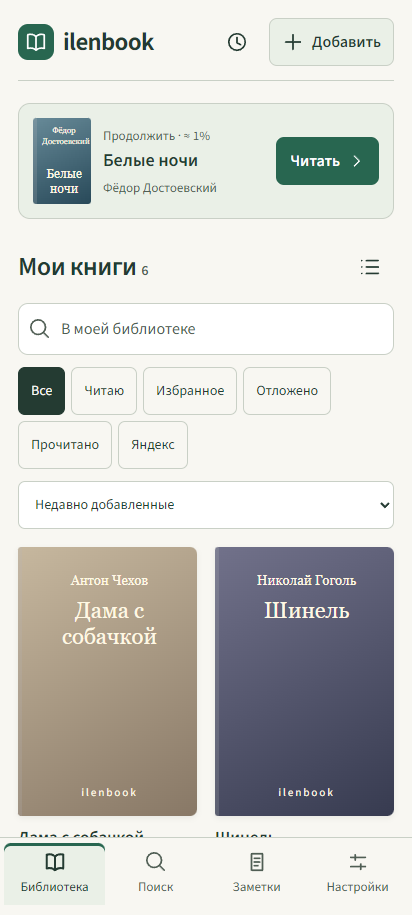
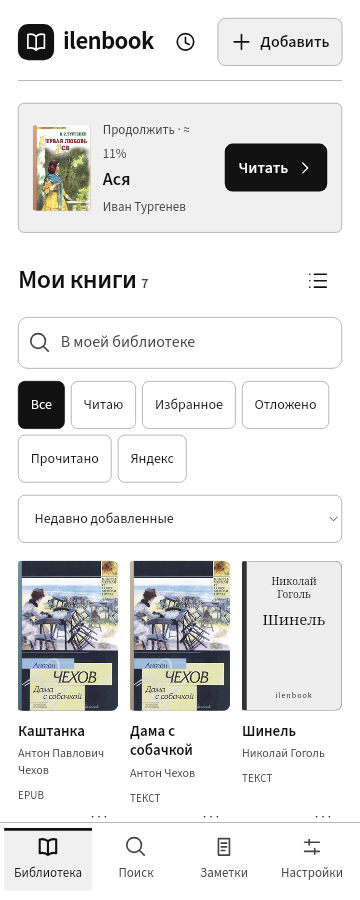
Fit three or more books per shelf row and release 0.7.2

diff --git a/app/src/main/assets/discovery.css b/app/src/main/assets/discovery.css
@@ -1,6 +1,7 @@
 /* Library and discovery share the paper palette and E Ink contrast tokens. */
-.shell{padding-top:18px}.top{padding-bottom:14px;border-bottom:1px solid var(--line);margin-bottom:22px}.logo{letter-spacing:-.65px}.brand-icon{border-radius:10px}.section-head h1{letter-spacing:-.5px}.eyebrow{display:block;font-size:13px;color:var(--muted);margin-bottom:5px}.search-intro{margin:0 0 18px;max-width:46ch}.searchbox{border-radius:10px;min-height:52px}.catalog-searchbox{border-width:1.5px}.search-submit{background:var(--green);color:var(--bg);border-radius:8px;margin:4px -6px 4px 0}.search-options{display:grid;grid-template-columns:repeat(2,minmax(0,1fr));gap:10px}.search-options>label,.result-filters>label{font-size:13px;color:var(--muted);min-width:0}.search-options .field,.result-filters .field{margin:5px 0 0;font-size:15px;color:var(--ink)}.search-source-summary{display:flex;align-items:center;justify-content:space-between;gap:10px;font-size:14px;margin:12px 0 26px;color:var(--muted)}.text-button{color:var(--green);font-weight:600;padding:8px 2px;min-height:48px;text-align:left}.search-history{margin:0 0 24px}.search-history h2,#catalog-view>.section-head h2{font-size:20px}.search-history .section-head{margin-bottom:0}.search-history .chips{margin:0}.search-history .chip{gap:6px;max-width:100%;overflow-wrap:anywhere}.search-history .icon{width:17px;height:17px}.source-card{border:1px solid var(--line);background:var(--card);border-radius:12px;padding:14px;gap:12px;min-width:0;width:100%;margin:0;text-align:left;display:grid;grid-template-columns:38px minmax(0,1fr) 20px}.source-card strong{font-size:17px;font-weight:600;overflow-wrap:anywhere}.source-card small{margin-top:4px;font-size:13px}.source-emblem{width:38px;height:44px;display:grid;place-items:center;background:var(--soft);color:var(--green);border-radius:8px}.catalog-source-grid{display:grid;gap:10px}.search-result-status{display:flex;align-items:center;justify-content:space-between;gap:8px;margin:16px 0}.search-result-status .search-progress{margin:0;padding:0;border:0;font-size:14px;color:var(--muted)}.global-tools{display:flex;flex-wrap:wrap;gap:8px;margin-bottom:14px}.global-tools .secondary{font-size:14px;min-height:48px}.global-tools .icon{width:18px;height:18px}.result-filters{display:grid;grid-template-columns:repeat(2,minmax(0,1fr));gap:12px;padding:14px;background:var(--soft);border:1px solid var(--line);border-radius:10px;margin-bottom:10px}.result-filters .text-button{grid-column:1/-1;min-height:40px}.global-entry{display:grid;grid-template-columns:64px minmax(0,1fr);gap:14px;padding:18px 0;align-items:start;width:100%;text-align:left;border-bottom:1px solid var(--line)}.global-entry .catalog-cover{width:64px;min-width:64px;height:96px;aspect-ratio:2/3}.global-entry .entry-copy{min-width:0}.entry-copy h3{font-size:18px;line-height:1.3;margin-bottom:4px;overflow-wrap:anywhere}.entry-copy p{font-size:15px;color:var(--muted)}.entry-copy .result-source{font-size:12px;margin-top:7px}.entry-copy .result-formats{font-size:12px;margin-top:3px}.entry-action{font-size:14px;font-weight:600;color:var(--green);display:flex;align-items:center;gap:4px;margin-top:8px}.entry-action .icon{width:16px;height:16px}.global-entry.section-entry{grid-template-columns:28px minmax(0,1fr) 20px}.global-entry.section-entry>.icon{margin-top:4px}.search-empty{padding:22px 4px}.source-status{padding:14px 0;display:grid;grid-template-columns:minmax(0,1fr) auto;gap:8px;border-bottom:1px solid var(--line)}.source-status .error{grid-column:1/-1;margin:0;font-size:13px;overflow-wrap:anywhere}.source-status .secondary{grid-column:2;grid-row:1;font-size:14px}.source-status strong{font-size:15px}.source-status p{font-size:13px}.source-manager .setting-row{flex:1;justify-content:flex-start;gap:12px;min-width:0;border:0}.source-manager .setting-row span{overflow-wrap:anywhere}.source-manager .setting-row input{flex-shrink:0}.source-manage-row{display:flex;gap:6px;align-items:center;border-bottom:1px solid var(--line)}.source-manager{margin-bottom:16px}#source-details{margin:20px 0}#global-pages .full,#show-local-results{margin-top:14px}.shelf-large{grid-template-columns:repeat(2,minmax(0,1fr));gap:26px 18px}.shelf-compact{grid-template-columns:repeat(3,minmax(0,1fr));gap:22px 12px}.book h3{font-size:17px;font-weight:600;line-height:1.3;margin-top:11px}.book-author{font-size:14px;line-height:1.4}.book-foot{font-size:12px;letter-spacing:.1px;padding-right:44px;margin-top:9px;min-height:38px}.book-menu{right:-5px;bottom:0;width:48px;min-width:48px}.book .progress{height:4px;border-radius:2px;overflow:hidden}.book-item .cover{box-shadow:0 2px 6px #17251d12}.cover-title{overflow-wrap:anywhere}.shelf-compact .cover-title{font-size:17px}.shelf-compact .cover-author{font-size:10px}.shelf-compact .cover-footer{font-size:8px;letter-spacing:1px}.shelf-compact .book h3{font-size:15px}.shelf-compact .book-author{font-size:12px}.shelf-compact .book-foot{font-size:11px;min-height:48px;padding-right:30px}.shelf-compact .book-menu{width:48px;min-width:48px}.resume{grid-template-columns:58px minmax(0,1fr) auto;gap:12px;padding:14px;background:var(--soft);border-radius:12px;margin-bottom:24px}.resume-cover{width:58px;height:86px;border-radius:3px;padding:8px 5px}.resume-cover .cover-title{font-size:12px;line-height:1.2}.resume-cover .cover-author{font-size:8px}.resume-cover .cover-art,.resume-cover .cover-footer{display:none}.resume-copy{min-width:0}.resume-copy h3{font-size:18px;line-height:1.25;overflow-wrap:anywhere}.resume-copy .subtle{font-size:13px}.resume .primary{align-self:center}.layout-choices{display:grid;gap:10px;margin-top:18px}.layout-choice{display:flex;align-items:center;gap:12px;width:100%;padding:14px;border:1px solid var(--line);border-radius:10px;text-align:left}.layout-choice>span{flex:1;min-width:0}.layout-choice.selected{border:2px solid var(--green);background:var(--soft);padding:13px}.layout-choice strong{font-size:17px}.layout-choice small{font-size:13px;margin-top:4px}.library-empty p{margin:12px 0 20px}.nav{padding-bottom:max(10px,env(safe-area-inset-bottom));border-top:1px solid var(--line);background:var(--bg)}.nav button.active{background:var(--soft);border-radius:7px 7px 0 0}.sheet .full+.full{margin-top:10px}.eink .book-item .cover{box-shadow:none}.eink .source-card,.eink .resume,.eink .result-filters{border-radius:6px}.eink .nav button.active{border-radius:0}.eink .search-submit{color:#fff}
+.shell{padding-top:18px}.top{padding-bottom:14px;border-bottom:1px solid var(--line);margin-bottom:22px}.logo{letter-spacing:-.65px}.brand-icon{border-radius:10px}.section-head h1{letter-spacing:-.5px}.eyebrow{display:block;font-size:13px;color:var(--muted);margin-bottom:5px}.search-intro{margin:0 0 18px;max-width:46ch}.searchbox{border-radius:10px;min-height:52px}.catalog-searchbox{border-width:1.5px}.search-submit{background:var(--green);color:var(--bg);border-radius:8px;margin:4px -6px 4px 0}.search-options{display:grid;grid-template-columns:repeat(2,minmax(0,1fr));gap:10px}.search-options>label,.result-filters>label{font-size:13px;color:var(--muted);min-width:0}.search-options .field,.result-filters .field{margin:5px 0 0;font-size:15px;color:var(--ink)}.search-source-summary{display:flex;align-items:center;justify-content:space-between;gap:10px;font-size:14px;margin:12px 0 26px;color:var(--muted)}.text-button{color:var(--green);font-weight:600;padding:8px 2px;min-height:48px;text-align:left}.search-history{margin:0 0 24px}.search-history h2,#catalog-view>.section-head h2{font-size:20px}.search-history .section-head{margin-bottom:0}.search-history .chips{margin:0}.search-history .chip{gap:6px;max-width:100%;overflow-wrap:anywhere}.search-history .icon{width:17px;height:17px}.source-card{border:1px solid var(--line);background:var(--card);border-radius:12px;padding:14px;gap:12px;min-width:0;width:100%;margin:0;text-align:left;display:grid;grid-template-columns:38px minmax(0,1fr) 20px}.source-card strong{font-size:17px;font-weight:600;overflow-wrap:anywhere}.source-card small{margin-top:4px;font-size:13px}.source-emblem{width:38px;height:44px;display:grid;place-items:center;background:var(--soft);color:var(--green);border-radius:8px}.catalog-source-grid{display:grid;gap:10px}.search-result-status{display:flex;align-items:center;justify-content:space-between;gap:8px;margin:16px 0}.search-result-status .search-progress{margin:0;padding:0;border:0;font-size:14px;color:var(--muted)}.global-tools{display:flex;flex-wrap:wrap;gap:8px;margin-bottom:14px}.global-tools .secondary{font-size:14px;min-height:48px}.global-tools .icon{width:18px;height:18px}.result-filters{display:grid;grid-template-columns:repeat(2,minmax(0,1fr));gap:12px;padding:14px;background:var(--soft);border:1px solid var(--line);border-radius:10px;margin-bottom:10px}.result-filters .text-button{grid-column:1/-1;min-height:40px}.global-entry{display:grid;grid-template-columns:64px minmax(0,1fr);gap:14px;padding:18px 0;align-items:start;width:100%;text-align:left;border-bottom:1px solid var(--line)}.global-entry .catalog-cover{width:64px;min-width:64px;height:96px;aspect-ratio:2/3}.global-entry .entry-copy{min-width:0}.entry-copy h3{font-size:18px;line-height:1.3;margin-bottom:4px;overflow-wrap:anywhere}.entry-copy p{font-size:15px;color:var(--muted)}.entry-copy .result-source{font-size:12px;margin-top:7px}.entry-copy .result-formats{font-size:12px;margin-top:3px}.entry-action{font-size:14px;font-weight:600;color:var(--green);display:flex;align-items:center;gap:4px;margin-top:8px}.entry-action .icon{width:16px;height:16px}.global-entry.section-entry{grid-template-columns:28px minmax(0,1fr) 20px}.global-entry.section-entry>.icon{margin-top:4px}.search-empty{padding:22px 4px}.source-status{padding:14px 0;display:grid;grid-template-columns:minmax(0,1fr) auto;gap:8px;border-bottom:1px solid var(--line)}.source-status .error{grid-column:1/-1;margin:0;font-size:13px;overflow-wrap:anywhere}.source-status .secondary{grid-column:2;grid-row:1;font-size:14px}.source-status strong{font-size:15px}.source-status p{font-size:13px}.source-manager .setting-row{flex:1;justify-content:flex-start;gap:12px;min-width:0;border:0}.source-manager .setting-row span{overflow-wrap:anywhere}.source-manager .setting-row input{flex-shrink:0}.source-manage-row{display:flex;gap:6px;align-items:center;border-bottom:1px solid var(--line)}.source-manager{margin-bottom:16px}#source-details{margin:20px 0}#global-pages .full,#show-local-results{margin-top:14px}.shelf-large{grid-template-columns:repeat(3,minmax(0,1fr));gap:20px 12px}.shelf-compact{grid-template-columns:repeat(3,minmax(0,1fr));gap:18px 8px}.book h3{font-size:17px;font-weight:600;line-height:1.3;margin-top:11px}.book-author{font-size:14px;line-height:1.4}.book-foot{font-size:12px;letter-spacing:.1px;padding-right:44px;margin-top:9px;min-height:38px}.book-menu{right:-5px;bottom:0;width:48px;min-width:48px}.book .progress{height:4px;border-radius:2px;overflow:hidden}.book-item .cover{box-shadow:0 2px 6px #17251d12}.cover-title{overflow-wrap:anywhere}.grid .cover-title{overflow-wrap:normal;word-break:normal;hyphens:auto;font-size:15px;line-height:1.2;display:-webkit-box;-webkit-box-orient:vertical;-webkit-line-clamp:4;overflow:hidden}.grid .cover-author{font-size:10px;display:-webkit-box;-webkit-box-orient:vertical;-webkit-line-clamp:2;overflow:hidden}.grid .cover-footer{font-size:8px;letter-spacing:1px}.grid .book h3{font-size:15px;display:-webkit-box;-webkit-box-orient:vertical;-webkit-line-clamp:3;overflow:hidden}.grid .book-author{font-size:12px;display:-webkit-box;-webkit-box-orient:vertical;-webkit-line-clamp:2;overflow:hidden}.grid .book-foot{font-size:11px;min-height:48px;padding-right:30px;overflow-wrap:normal;white-space:nowrap;overflow:hidden;text-overflow:ellipsis}.shelf-compact .cover-title{font-size:12px}.shelf-compact .book h3{font-size:14px}.shelf-compact .book-menu{width:48px;min-width:48px}.resume{grid-template-columns:58px minmax(0,1fr) auto;gap:12px;padding:14px;background:var(--soft);border-radius:12px;margin-bottom:24px}.resume-cover{width:58px;height:86px;border-radius:3px;padding:8px 5px}.resume-cover .cover-title{font-size:12px;line-height:1.2}.resume-cover .cover-author{font-size:8px}.resume-cover .cover-art,.resume-cover .cover-footer{display:none}.resume-copy{min-width:0}.resume-copy h3{font-size:18px;line-height:1.25;overflow-wrap:anywhere}.resume-copy .subtle{font-size:13px}.resume .primary{align-self:center}.layout-choices{display:grid;gap:10px;margin-top:18px}.layout-choice{display:flex;align-items:center;gap:12px;width:100%;padding:14px;border:1px solid var(--line);border-radius:10px;text-align:left}.layout-choice>span{flex:1;min-width:0}.layout-choice.selected{border:2px solid var(--green);background:var(--soft);padding:13px}.layout-choice strong{font-size:17px}.layout-choice small{font-size:13px;margin-top:4px}.library-empty p{margin:12px 0 20px}.nav{padding-bottom:max(10px,env(safe-area-inset-bottom));border-top:1px solid var(--line);background:var(--bg)}.nav button.active{background:var(--soft);border-radius:7px 7px 0 0}.sheet .full+.full{margin-top:10px}.eink .book-item .cover{box-shadow:none}.eink .source-card,.eink .resume,.eink .result-filters{border-radius:6px}.eink .nav button.active{border-radius:0}.eink .search-submit{color:#fff}
 @media(max-width:350px){.resume{grid-template-columns:46px minmax(0,1fr);gap:10px;padding:12px}.resume-cover{width:46px;height:72px;grid-row:1/3}.resume .primary{grid-column:2;justify-self:start;min-height:44px;padding:6px 14px}.resume-copy h3{font-size:17px}.search-source-summary{align-items:flex-start}.search-source-summary .text-button{max-width:125px;padding-top:0}.shelf-large{gap:24px 14px}.shelf-compact{gap:20px 9px}.shelf-compact .book-menu{right:-8px}.global-tools{gap:6px}.global-tools .secondary{padding:8px 10px}.source-card{padding:12px;gap:10px;grid-template-columns:34px minmax(0,1fr) 18px}.source-emblem{width:34px}.source-card strong{font-size:16px}}
-@media(min-width:600px){.catalog-source-grid{grid-template-columns:repeat(2,minmax(0,1fr))}.shelf-large{grid-template-columns:repeat(3,minmax(0,1fr))}.shelf-compact{grid-template-columns:repeat(4,minmax(0,1fr))}.result-filters{grid-template-columns:repeat(4,minmax(0,1fr))}.resume{grid-template-columns:64px minmax(0,1fr) auto}.resume-cover{width:64px;height:94px}.global-entry{grid-template-columns:78px minmax(0,1fr)}.global-entry .catalog-cover{width:78px;height:117px}}
-@media(min-width:850px){.shelf-large{grid-template-columns:repeat(4,minmax(0,1fr))}.shelf-compact{grid-template-columns:repeat(5,minmax(0,1fr))}}
+@media(min-width:360px){.shelf-compact{grid-template-columns:repeat(4,minmax(0,1fr))}}
+@media(min-width:600px){.catalog-source-grid{grid-template-columns:repeat(2,minmax(0,1fr))}.shelf-large{grid-template-columns:repeat(4,minmax(0,1fr))}.shelf-compact{grid-template-columns:repeat(5,minmax(0,1fr))}.result-filters{grid-template-columns:repeat(4,minmax(0,1fr))}.resume{grid-template-columns:64px minmax(0,1fr) auto}.resume-cover{width:64px;height:94px}.global-entry{grid-template-columns:78px minmax(0,1fr)}.global-entry .catalog-cover{width:78px;height:117px}}
+@media(min-width:850px){.shelf-large{grid-template-columns:repeat(5,minmax(0,1fr))}.shelf-compact{grid-template-columns:repeat(6,minmax(0,1fr))}}
 .flibusta-network-tools{display:flex;align-items:center;gap:8px;flex-wrap:wrap;margin:12px 0}.flibusta-network-tools .description{margin:0;font-size:13px}

diff --git a/app/src/main/assets/app.js b/app/src/main/assets/app.js
@@ -1,5 +1,5 @@
 'use strict';
-const VERSION='0.7.1',STORE='list-reader-v1';
+const VERSION='0.7.2',STORE='list-reader-v1';
 const $=s=>document.querySelector(s),$$=s=>[...document.querySelectorAll(s)];
 const esc=v=>String(v??'').replace(/[&<>"']/g,c=>({'&':'&amp;','<':'&lt;','>':'&gt;','"':'&quot;',"'":'&#39;'}[c]));
 const fold=v=>String(v??'').normalize('NFKC').toLocaleLowerCase('ru').replace(/ё/g,'е').replace(/\s+/g,' ').trim();
@@ -71,7 +71,7 @@ function renderLibrary(){
 function renderBooks(){
  const q=fold(state.query),isExternal=b=>!!b.url;let books=[...state.books,...externalLibraryBooks()].filter(b=>{const m=meta(b.id);return (state.filter==='all'||state.filter==='favorite'&&m.favorite||state.filter==='external'&&isExternal(b)||(b.yandexAccount?yandexRemoteState(b):m.status)===state.filter)&&(!state.collection||m.collection===state.collection)&&q.split(' ').every(t=>fold(`${b.title} ${b.author} ${m.series||b.series||''} ${m.collection||''}`).includes(t))});
  books.sort((a,b)=>state.sort==='title'?a.title.localeCompare(b.title,'ru'):state.sort==='author'?a.author.localeCompare(b.author,'ru'):state.sort==='series'?String(meta(a.id).series||a.series||'').localeCompare(String(meta(b.id).series||b.series||''),'ru')||Number(meta(a.id).seriesNumber||a.seriesNumber||0)-Number(meta(b.id).seriesNumber||b.seriesNumber||0):state.sort==='opened'?(meta(b.id).lastRead||0)-(meta(a.id).lastRead||0):(b.added||0)-(a.added||0));
- $('#books').innerHTML=books.length?`<div class="${state.list?'list-view':'grid shelf-'+state.shelf}">${books.map(b=>`<div class="book-item"><button class="book" data-book="${esc(b.id)}" aria-label="${b.url?'Открыть в Яндекс Книгах':'Читать'}: ${esc(b.title)}">${cover(b)}<h3>${esc(b.title)}</h3><div class="book-author">${esc(b.author)}</div><div class="book-foot">${b.yandexAccount?yandexBookLabel(b):b.url?'Яндекс Книги ↗':meta(b.id).status==='done'?'Прочитано':percent(b)>0?'≈ '+percent(b)+'% · на устройстве':'На устройстве · '+esc(b.format||'EPUB')}</div>${!b.url&&percent(b)>0?`<div class="progress"><span style="width:${percent(b)}%"></span></div>`:''}</button><button class="book-menu icon-btn" data-details="${esc(b.id)}" aria-label="Действия с книгой ${esc(b.title)}">${icon('more')}</button></div>`).join('')}</div>`:'<div class="empty"><h2>Книги не найдены</h2><p>Измените фильтр или добавьте книгу с устройства.</p></div>';
+ $('#books').innerHTML=books.length?`<div class="${state.list?'list-view':'grid shelf-'+state.shelf}">${books.map(b=>`<div class="book-item"><button class="book" data-book="${esc(b.id)}" aria-label="${b.url?'Открыть в Яндекс Книгах':'Читать'}: ${esc(b.title)}">${cover(b)}<h3>${esc(b.title)}</h3><div class="book-author">${esc(b.author)}</div><div class="book-foot">${b.yandexAccount?yandexBookLabel(b):b.url?'Яндекс Книги ↗':meta(b.id).status==='done'?'Прочитано':percent(b)>0?'≈ '+percent(b)+'%'+(state.list?' · на устройстве':''):(state.list?'На устройстве · ':'')+esc(b.format||'EPUB')}</div>${!b.url&&percent(b)>0?`<div class="progress"><span style="width:${percent(b)}%"></span></div>`:''}</button><button class="book-menu icon-btn" data-details="${esc(b.id)}" aria-label="Действия с книгой ${esc(b.title)}">${icon('more')}</button></div>`).join('')}</div>`:'<div class="empty"><h2>Книги не найдены</h2><p>Измените фильтр или добавьте книгу с устройства.</p></div>';
  if(!books.length&&q){$('#books').innerHTML='<div class="empty library-empty"><h2>На полке не найдено</h2><p>Попробуйте поискать эту книгу в онлайн-библиотеках.</p><button class="primary full" id="search-from-library">Искать в каталогах</button></div>';$('#search-from-library').onclick=()=>startGlobalSearch(state.query)}
  $$('[data-book]').forEach(b=>b.onclick=()=>{const external=prefs.external.find(e=>e.id===b.dataset.book);if(external)openExternalLink(external);else openReader(b.dataset.book)});$$('[data-details]').forEach(b=>b.onclick=()=>details(b.dataset.details));
 }

diff --git a/app/src/main/assets/library-ui.js b/app/src/main/assets/library-ui.js
@@ -2,6 +2,6 @@
 
 function libraryLayoutDialog(){
  const selected=state.list?'list':state.shelf;
- sheet('Вид библиотеки',`<p class="description">Выберите удобный размер обложек. Вид сохранится для следующего открытия.</p><div class="layout-choices">${[['large','Крупная полка','Две обложки в ряд на небольшом экране','grid'],['compact','Компактная полка','Больше книг на одном экране','grid'],['list','Список','Название и автор рядом с обложкой','list']].map(([id,title,hint,glyph])=>`<button class="layout-choice ${id===selected?'selected':''}" data-library-layout="${id}" aria-pressed="${id===selected}">${icon(glyph)}<span><strong>${title}</strong><small>${hint}</small></span>${id===selected?icon('check'):''}</button>`).join('')}</div>`);
+ sheet('Вид библиотеки',`<p class="description">Выберите удобный размер обложек. Вид сохранится для следующего открытия.</p><div class="layout-choices">${[['large','Обычная полка','От трёх обложек в ряд','grid'],['compact','Компактная полка','Меньше обложки — больше книг на экране','grid'],['list','Список','Название и автор рядом с обложкой','list']].map(([id,title,hint,glyph])=>`<button class="layout-choice ${id===selected?'selected':''}" data-library-layout="${id}" aria-pressed="${id===selected}">${icon(glyph)}<span><strong>${title}</strong><small>${hint}</small></span>${id===selected?icon('check'):''}</button>`).join('')}</div>`);
  $$('[data-library-layout]').forEach(button=>button.onclick=()=>{const layout=button.dataset.libraryLayout;state.list=layout==='list';if(!state.list)state.shelf=layout;rememberUI();flushUISettings();closeSheet();renderLibrary()});
 }

diff --git a/app/src/main/java/by/list/reader/YandexAccount.java b/app/src/main/java/by/list/reader/YandexAccount.java
@@ -66,7 +66,7 @@ final class YandexAccount {
     private JSONObject request(String method,String address,JSONObject body,String token)throws Exception{
         if(!YandexProtocol.trustedApi(address))throw new IOException("Недоверенный адрес API");if(token==null||token.length()>4096)throw new IOException("Нужен вход в аккаунт");
         if(transport!=null)return transport.request(method,address,body,token);
-        HttpURLConnection c=(HttpURLConnection)new URL(address).openConnection();try{c.setInstanceFollowRedirects(false);c.setConnectTimeout(9000);c.setReadTimeout(14000);c.setRequestMethod(method);c.setRequestProperty("Auth-Token",token);c.setRequestProperty("Accept","application/json");c.setRequestProperty("App-Language","ru");c.setRequestProperty("App-Locale","ru");c.setRequestProperty("App-Platform","android");c.setRequestProperty("Bookmate-Version","20200305");c.setRequestProperty("Device-Os","Android");c.setRequestProperty("User-Agent","ilenbook/0.7.1");if(body!=null){c.setDoOutput(true);c.setRequestProperty("Content-Type","application/json");try(OutputStream out=c.getOutputStream()){out.write(body.toString().getBytes(StandardCharsets.UTF_8));}}int code=c.getResponseCode();if(code==401)throw new AuthFailure();if(code==403)throw new IOException("Нет доступа к этому разделу аккаунта (403)");if(code>=300&&code<400)throw new IOException("Перенаправление API отклонено");if(code==429)throw new IOException("Слишком много запросов. Повторите позже.");if(code!=200)throw new IOException("Сервис временно недоступен ("+code+")");return new JSONObject(new String(BookParser.read(c.getInputStream(),6*1024*1024),StandardCharsets.UTF_8));}finally{c.disconnect();}
+        HttpURLConnection c=(HttpURLConnection)new URL(address).openConnection();try{c.setInstanceFollowRedirects(false);c.setConnectTimeout(9000);c.setReadTimeout(14000);c.setRequestMethod(method);c.setRequestProperty("Auth-Token",token);c.setRequestProperty("Accept","application/json");c.setRequestProperty("App-Language","ru");c.setRequestProperty("App-Locale","ru");c.setRequestProperty("App-Platform","android");c.setRequestProperty("Bookmate-Version","20200305");c.setRequestProperty("Device-Os","Android");c.setRequestProperty("User-Agent","ilenbook/0.7.2");if(body!=null){c.setDoOutput(true);c.setRequestProperty("Content-Type","application/json");try(OutputStream out=c.getOutputStream()){out.write(body.toString().getBytes(StandardCharsets.UTF_8));}}int code=c.getResponseCode();if(code==401)throw new AuthFailure();if(code==403)throw new IOException("Нет доступа к этому разделу аккаунта (403)");if(code>=300&&code<400)throw new IOException("Перенаправление API отклонено");if(code==429)throw new IOException("Слишком много запросов. Повторите позже.");if(code!=200)throw new IOException("Сервис временно недоступен ("+code+")");return new JSONObject(new String(BookParser.read(c.getInputStream(),6*1024*1024),StandardCharsets.UTF_8));}finally{c.disconnect();}
     }
     private static String message(Exception e){if(e instanceof AuthFailure)return "Вход истёк или доступ отклонён. Подключите аккаунт заново.";if(e instanceof java.net.SocketTimeoutException)return "Яндекс не ответил вовремя. Повторите синхронизацию.";if(e instanceof JSONException)return "Сервис изменил формат данных. Сохранённая копия остаётся доступна.";return e.getMessage()==null?"Не удалось подключиться к Яндексу":e.getMessage();}
     private static final class AuthFailure extends IOException{}

diff --git a/app/src/main/java/by/list/reader/MainActivity.java b/app/src/main/java/by/list/reader/MainActivity.java
@@ -271,7 +271,7 @@ public class MainActivity extends Activity {
             URL url=new URL(current);if(!Arrays.asList("https","http").contains(url.getProtocol()))throw new IOException("Нужен адрес http:// или https://");
             checkCancelled();if(attempt!=null&&attempt.cancelled)throw new IOException("Запрос отменён");HttpURLConnection c=(HttpURLConnection)(proxy==null?url.openConnection():url.openConnection(proxy));String group=requestGroup.get();Set<HttpURLConnection> active=group==null||group.isEmpty()?null:searchConnections.computeIfAbsent(group,k->ConcurrentHashMap.newKeySet());if(active!=null)active.add(c);if(attempt!=null)attempt.connections.add(c);
             boolean flibusta=FlibustaAddress.owns(url),download=limit>5*1024*1024;c.setConnectTimeout(proxy!=null?25000:flibusta?4000:10000);c.setReadTimeout(download?120000:proxy!=null?30000:flibusta?10000:15000);c.setInstanceFollowRedirects(false);
-            c.setRequestProperty("User-Agent","IlenbookReader/0.7.1 (Android; OPDS; personal reader)");c.setRequestProperty("Accept","application/atom+xml, application/epub+zip, application/xml, */*");
+            c.setRequestProperty("User-Agent","IlenbookReader/0.7.2 (Android; OPDS; personal reader)");c.setRequestProperty("Accept","application/atom+xml, application/epub+zip, application/xml, */*");
             try { if(attempt!=null&&attempt.cancelled)throw new IOException("Запрос отменён");int status=c.getResponseCode();if(status>=300&&status<400) { String loc=c.getHeaderField("Location");if(loc==null)throw new IOException("Неверное перенаправление");current=new URL(url,loc).toString();continue; }
                 if(status!=200)throw new IOException("Сервер вернул HTTP "+status+". Проверьте адрес или попробуйте позже.");return BookParser.read(c.getInputStream(),limit);
             }finally{c.disconnect();if(active!=null)active.remove(c);if(attempt!=null)attempt.connections.remove(c);}

diff --git a/docs/USER_GUIDE.md b/docs/USER_GUIDE.md
@@ -1,14 +1,14 @@
-# Руководство ilenbook 0.7.1
+# Руководство ilenbook 0.7.2
 
 Android-читалка для сенсорной электронной книги, телефона и планшета, Android 8.0+. Есть универсальный режим E Ink. Испытания выполнены в Android-эмуляторе и браузере; физическое устройство ещё требует проверки.
 
-Установите APK 0.7.1 из [Releases](https://github.com/Lonviser/ilenbook/releases/latest) поверх прежней версии без удаления приложения. Пакет `by.list.reader` и прежний ключ подписи сохранены. Проверены обновления вплоть до 0.7 с сохранением тестовой библиотеки из 7 книг. После обновления создайте ZIP-копию локальной библиотеки в настройках.
+Установите APK 0.7.2 из [Releases](https://github.com/Lonviser/ilenbook/releases/latest) поверх прежней версии без удаления приложения. Пакет `by.list.reader` и прежний ключ подписи сохранены. Проверены обновления вплоть до 0.7 с сохранением тестовой библиотеки из 7 книг. После обновления создайте ZIP-копию локальной библиотеки в настройках.
 
 ## Что изменилось в 0.7
 
 В поиске появились Викитека и Internet Archive. Через «Выбрать источники» можно включать и выключать каталоги; есть история запросов, фильтры форматов, порядок по соответствию или названию и повтор отдельного источника. По умолчанию показываются книги и тексты; разделы авторов доступны в фильтрах. Викитека сохраняет текст выбранной страницы в TXT со ссылкой на ревизию. Internet Archive предлагает доступные EPUB/TXT из записей с объявленной свободной лицензией; сканы зависят от качества OCR.
 
-Кнопка рядом с «Мои книги» выбирает крупную полку, компактную полку или список. Если локальный поиск пуст, можно продолжить тот же запрос в каталогах. Поиск внутри книги подготавливает индекс и повторно использует его до закрытия книги.
+Кнопка рядом с «Мои книги» выбирает обычную полку, компактную полку или список. С версии 0.7.2 обычная полка показывает от трёх книг в ряд; компактная — четыре на экранах от 360 точек интерфейса и больше на широких экранах. На самом узком экране обе сетки оставляют три книги. Выбор сохраняется; прежняя крупная полка автоматически становится обычной. Если локальный поиск пуст, можно продолжить тот же запрос в каталогах. Поиск внутри книги подготавливает индекс и повторно использует его до закрытия книги.
 
 Новое: свои кнопки панели чтения, девять настраиваемых зон касания с проверкой, готовые и сохранённые профили оформления, отдельные настройки текста для книги. Всё доступно через «Ещё» и «Текст» в меню чтения и входит в ZIP-копию. Изучены общие идеи [Moon+ Reader](https://www.moondownload.com/); реализация собственная.
 

diff --git a/docs/VALIDATION_0.7.2.md b/docs/VALIDATION_0.7.2.md
@@ -1,0 +1,19 @@
+# Проверки ilenbook 0.7.2
+
+23 октября 2026, Europe/Minsk. Изменение сетки полки и подписей проверено в Chrome и Android 15 x86_64 WebView. Физическая читалка не использовалась.
+
+| Ширина интерфейса | Обычная полка | Компактная полка |
+|---|---:|---:|
+| 320 | 3 | 3 |
+| 360 | 3 | 4 |
+| 412 | 3 | 4 |
+| 600 | 4 | 5 |
+| 850 | 5 | 6 |
+
+Для обоих видов проверены фактическое число карточек в первом ряду, отсутствие горизонтальной прокрутки, открытие действий книги и размер кнопок 48 точек. Выбор обычной полки сохраняется после перезагрузки. Скриншоты сделаны в режиме E Ink. На Android обновление устанавливается поверх 0.7.1 с сохранением тестовой библиотеки из семи книг.
+
+`tools/v7-discovery-checks.cjs`: пройдены 11 групп существующих проверок библиотеки и поиска, включая переключение трёх видов, сохранение выбора и узкие экраны. Синтаксис JavaScript проверен. Сборка APK и стандартные 96 Java-проверок и 15 проверок модели времени выполняются в GitHub Actions.
+
+APK собран без `-DebugWebView`: версия 0.7.2, versionCode 9, Android 8.0+, пакет `by.list.reader`. Проверены прежний сертификат подписи, `debuggable=false`, совпадение 28 файлов assets с исходниками по SHA-256 и восемь нативных библиотек Tor/Lyrebird.
+
+Сетевые алгоритмы Флибусты и расчёт прогресса/времени не менялись. Их реальные сетевые и читательские проверки описаны в [отчёте 0.7.1](VALIDATION_0.7.1.md). Новый сетевой замер в 0.7.2 не выполнялся.

diff --git a/docs/RELEASE_NOTES_0.7.2.md b/docs/RELEASE_NOTES_0.7.2.md
@@ -1,0 +1,10 @@
+# ilenbook 0.7.2
+
+- Уменьшены обложки библиотеки. Обычная полка показывает три книги в ряд на небольшом экране, четыре или пять — на широком.
+- Компактная полка показывает четыре книги в ряд начиная с ширины 360 точек интерфейса, пять или шесть — на широком экране. На самом узком экране остаются три, чтобы обложки и кнопки сохраняли удобный размер.
+- Прежний режим «Крупная полка» стал «Обычной полкой». Уже сохранённый выбор автоматически использует новую сетку; переключать настройки после обновления не требуется.
+- Подписи адаптированы к небольшим обложкам. Полное название доступно в карточке книги. Убрано повторяющееся «На устройстве» у каждой книги на полке; формат и процент остаются. Кнопки действий сохраняют размер 48 точек.
+
+Выбор вида: кнопка справа от «Мои книги» → «Обычная полка» или «Компактная полка». Список также доступен; выбранный вид сохраняется.
+
+Установите `ilenbook-0.7.2.apk` поверх предыдущей версии без удаления приложения. Android 8.0+, пакет `by.list.reader`, прежний сертификат подписи. Книги, заметки, статистика и настройки сохраняются. Исправления Флибусты, проценты книги/главы и оставшееся время из 0.7.1 входят в этот выпуск.
